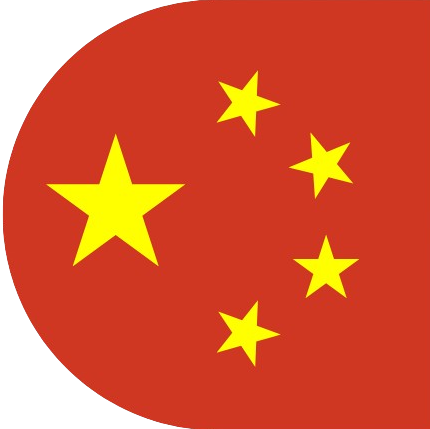
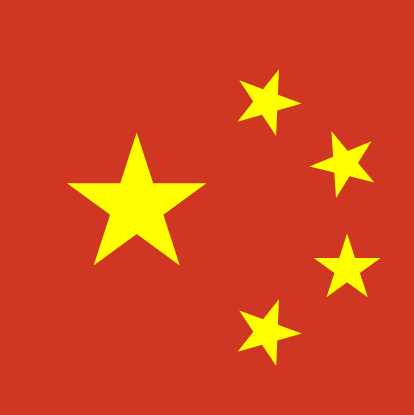
s

diff --git a/README.md b/README.md
@@ -24,11 +24,12 @@
 
  
 
-![English](https://img.shields.io/badge/-English-blue?style=for-the-badge&logo=google&logoColor=white)
 
+<img src="img/uk.png" width="28" height="28" alt="UK flag" />![English](https://img.shields.io/badge/-English-0071bd?style=for-the-badge)
+<img src="img/german.png" width="28" height="28" alt="UK flag" />![German](https://img.shields.io/badge/-German-696969?style=for-the-badge)
+<img src="img/china.png" width="28" height="28" alt="UK flag" />![Mandarin](https://img.shields.io/badge/-Chinese-cf3723?style=for-the-badge)
 
-<img src="img/chinese.png" width="28" height="28" alt="UK flag" />![English](https://img.shields.io/badge/-Chinese-cf3723?style=for-the-badge)
-
+[//]: # (![English]&#40;https://img.shields.io/badge/-English-blue?style=for-the-badge&logo=google&logoColor=white&#41;)
 
 
 
